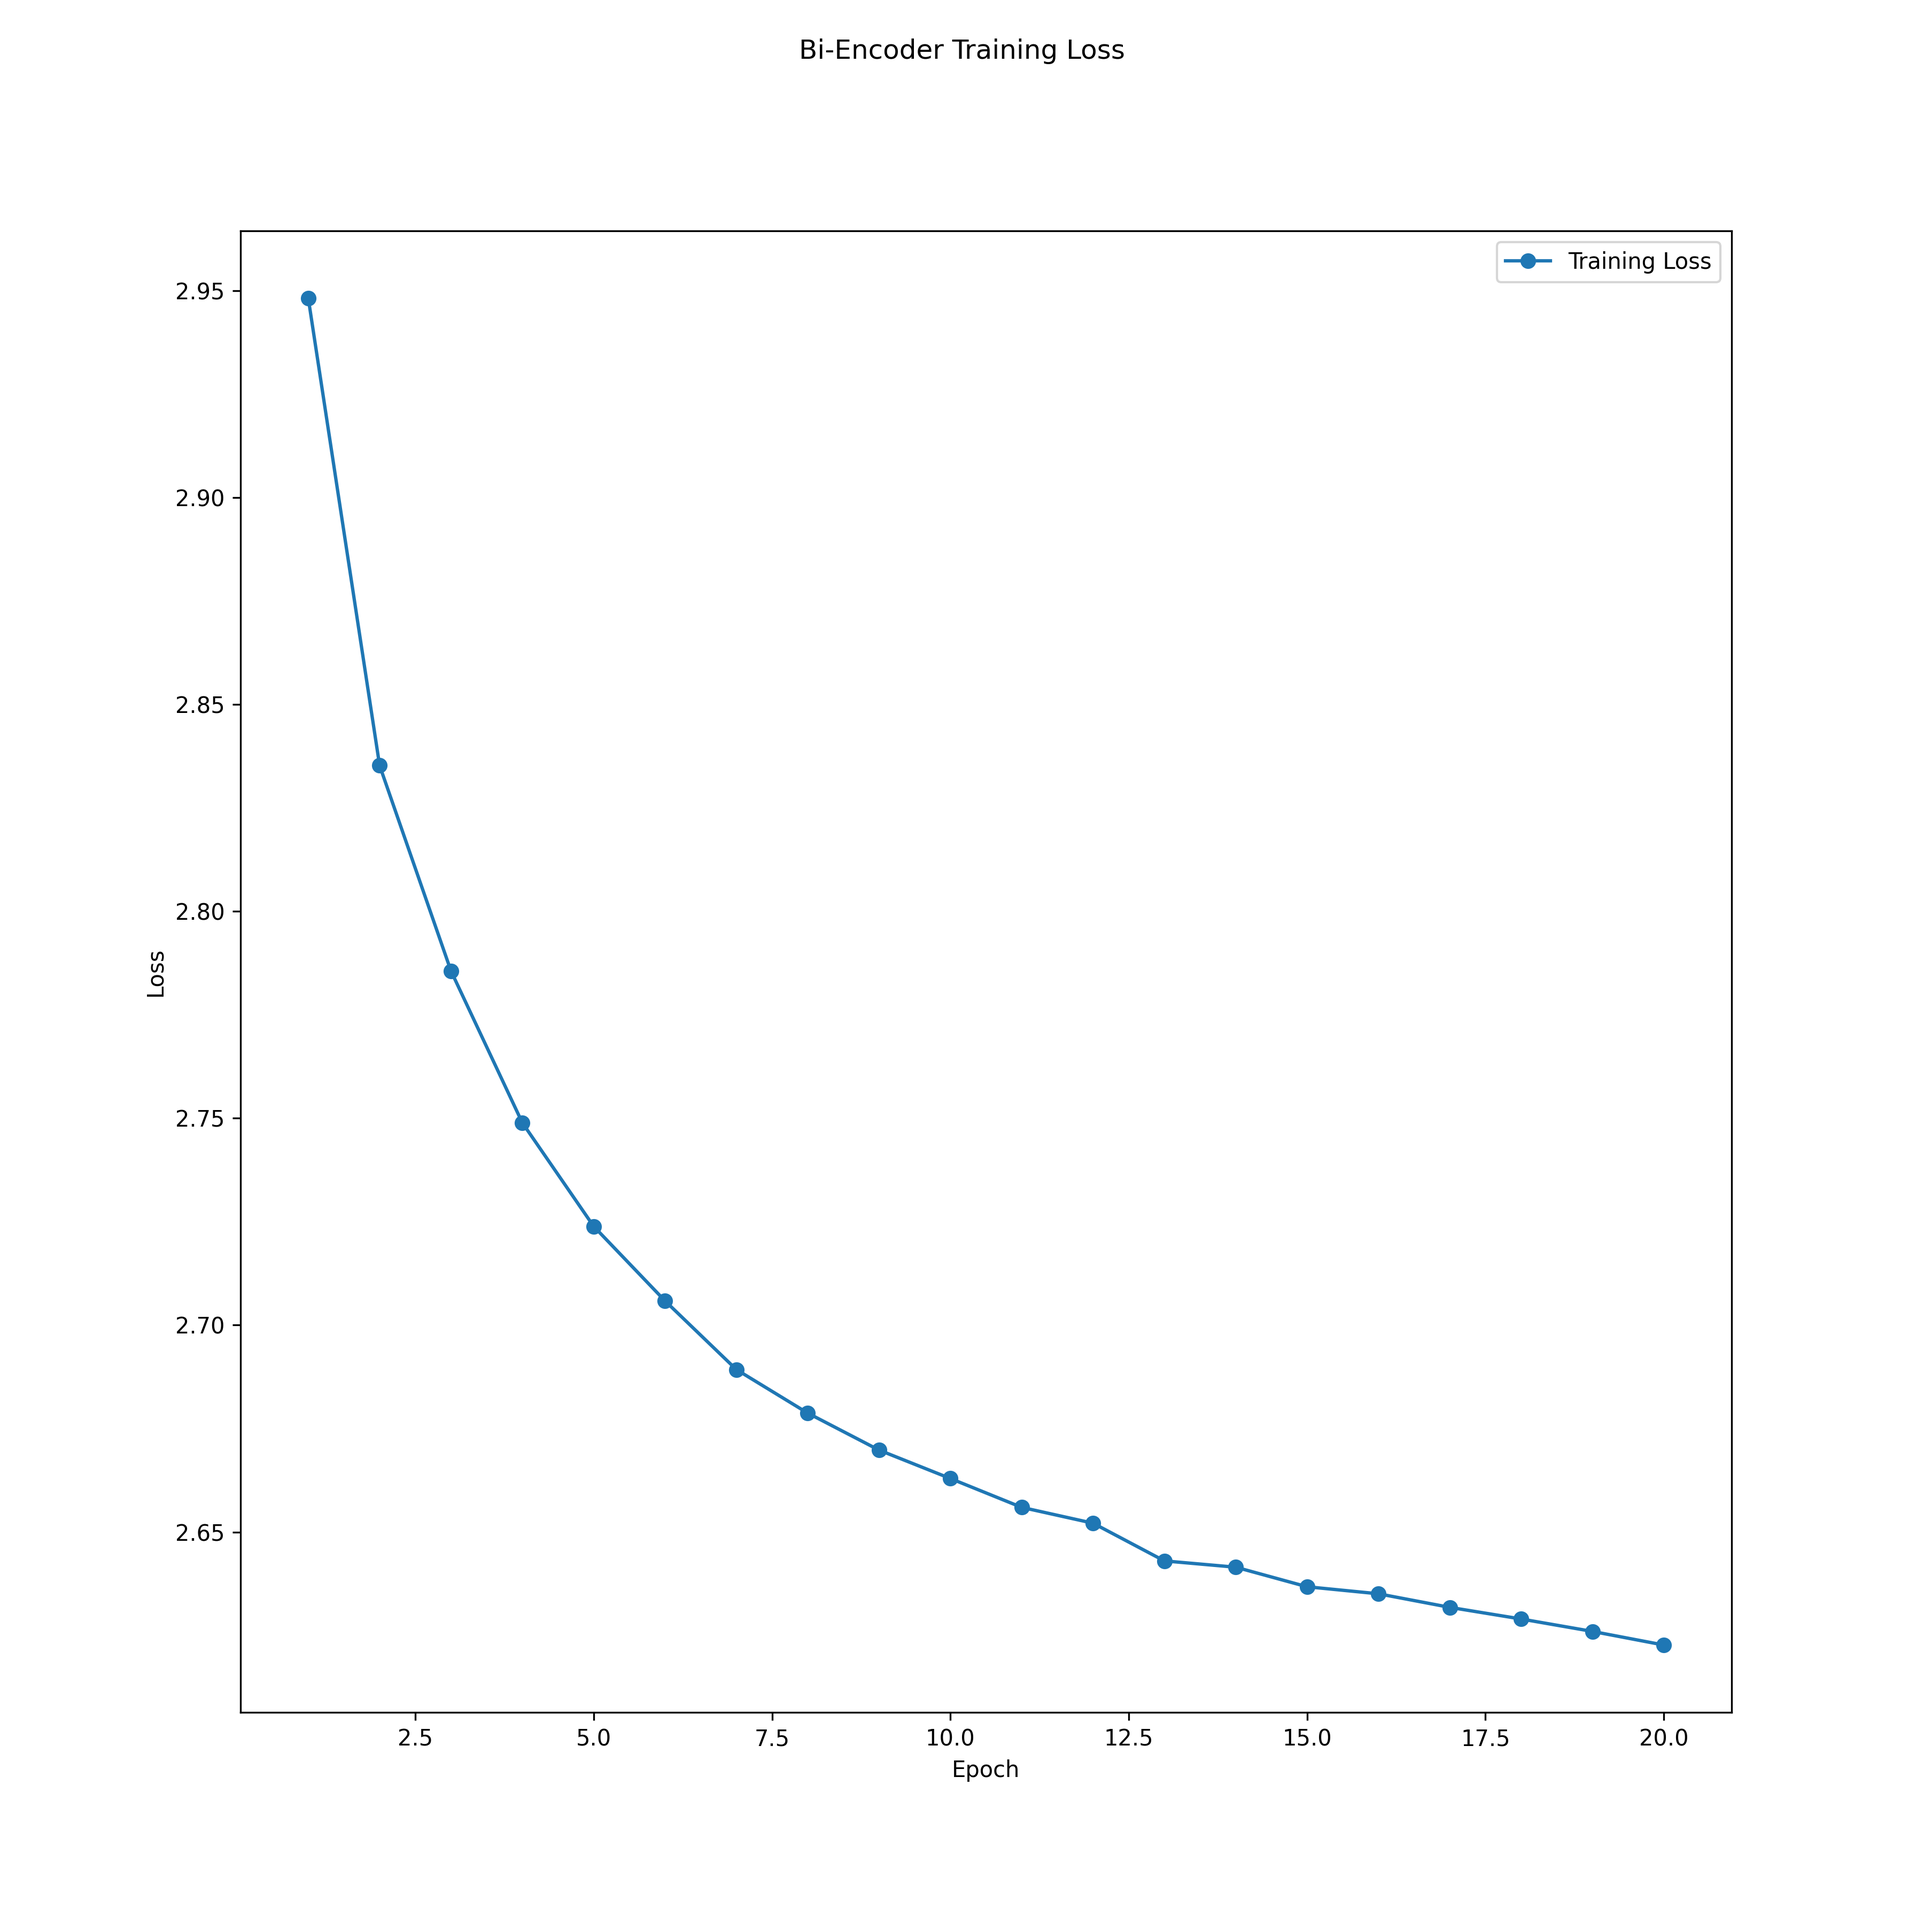
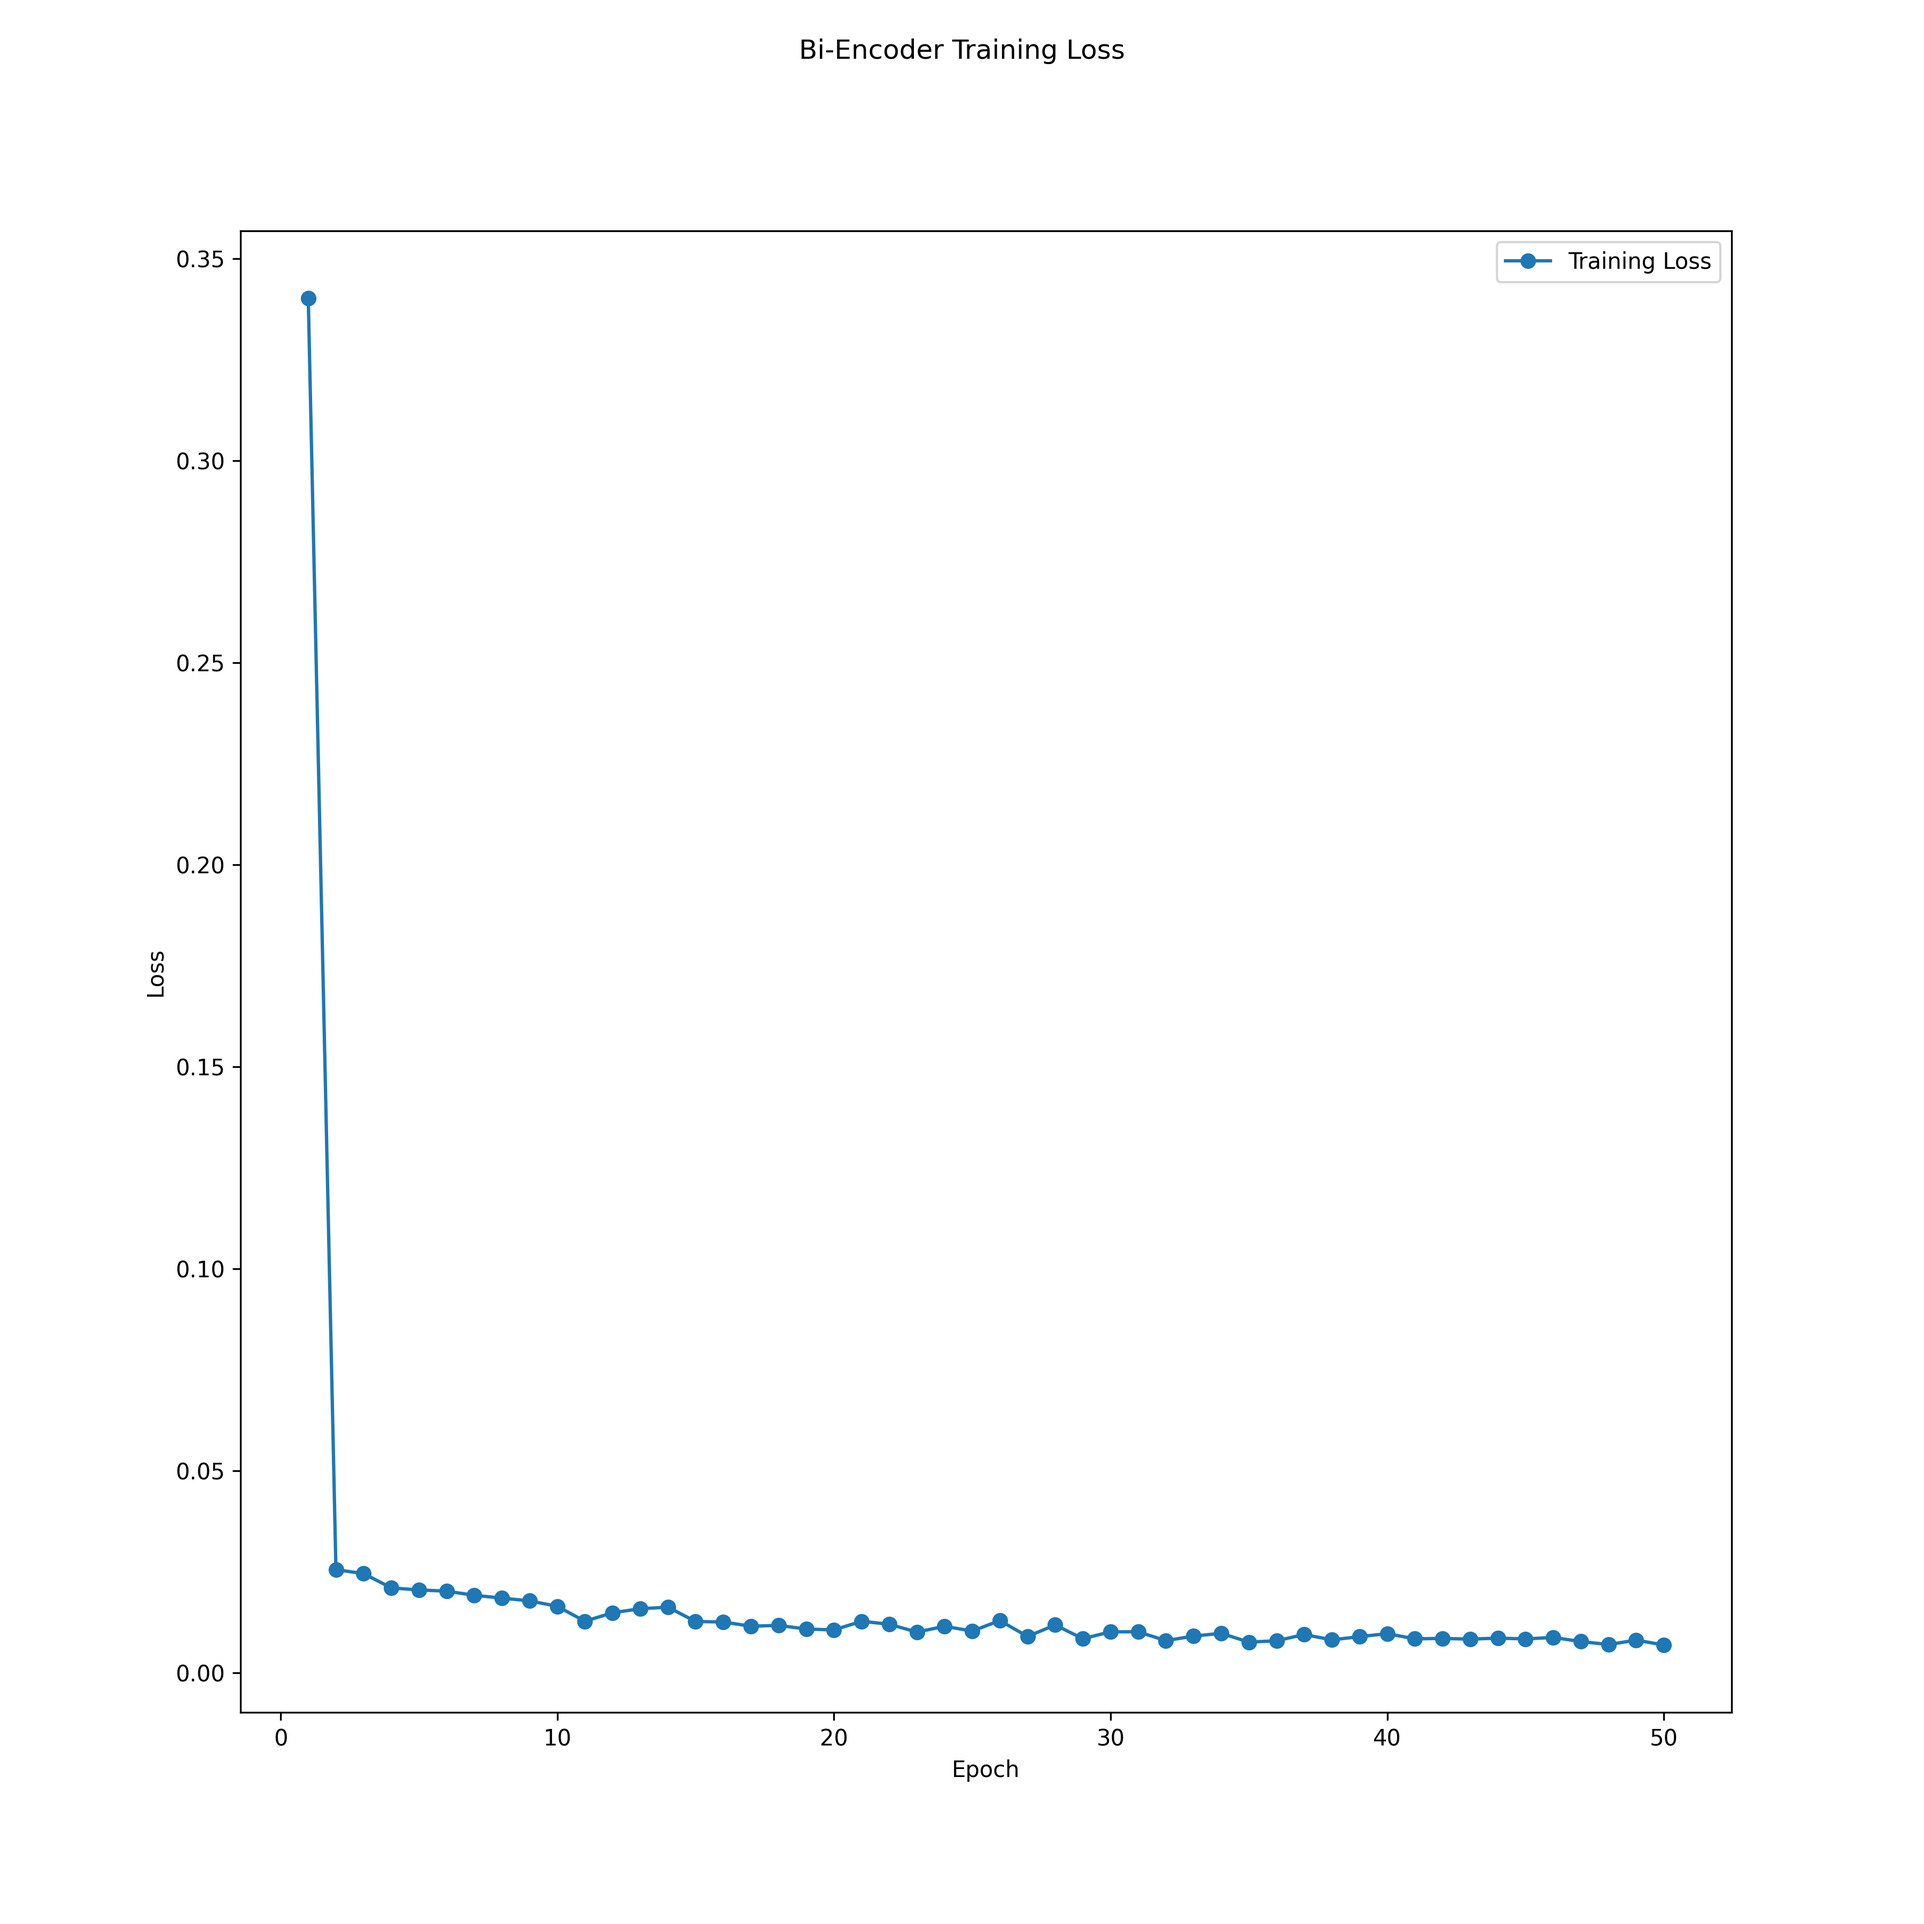
new train push

diff --git a/MEDRAG/training.py b/MEDRAG/training.py
@@ -42,7 +42,7 @@ class QPDataset(Dataset):
 dataset = QPDataset(queries, passages)
 dataloader = DataLoader(
     dataset,
-    batch_size=32,   # IMPORTANT
+    batch_size=32,   # BATCH SIZE IMPORTANT
     shuffle=True
 )
 
@@ -62,7 +62,7 @@ class BiEncoder(nn.Module):
         return out.last_hidden_state[:, 0]  # CLS
     
 
-def contrastive_loss(q_emb, p_emb, temperature=0.03):
+def contrastive_loss(q_emb, p_emb, temperature=1.0):
 
     """
     q_emb: (B, D)
@@ -142,11 +142,11 @@ plt.xlabel("Epoch")
 plt.legend()
 
 plt.style.use('bmh')
-plt.savefig("/work/mbouthil/projects/research_project/MEDRAG/figures/loss_curve.png", dpi=300)
+plt.savefig("/work/mbouthil/projects/research_project/MEDRAG/figures/loss_curve_2.png", dpi=300)
 
 save_dir = "/work/mbouthil/projects/research_project/MEDRAG/model_weights"
 
-model.query_encoder.save_pretrained(f"{save_dir}/query_encoder")
-model.passage_encoder.save_pretrained(f"{save_dir}/passage_encoder")
+model.query_encoder.save_pretrained(f"{save_dir}/query_encoder_2")
+model.passage_encoder.save_pretrained(f"{save_dir}/passage_encoder_2")
 
 tokenizer.save_pretrained(save_dir)
